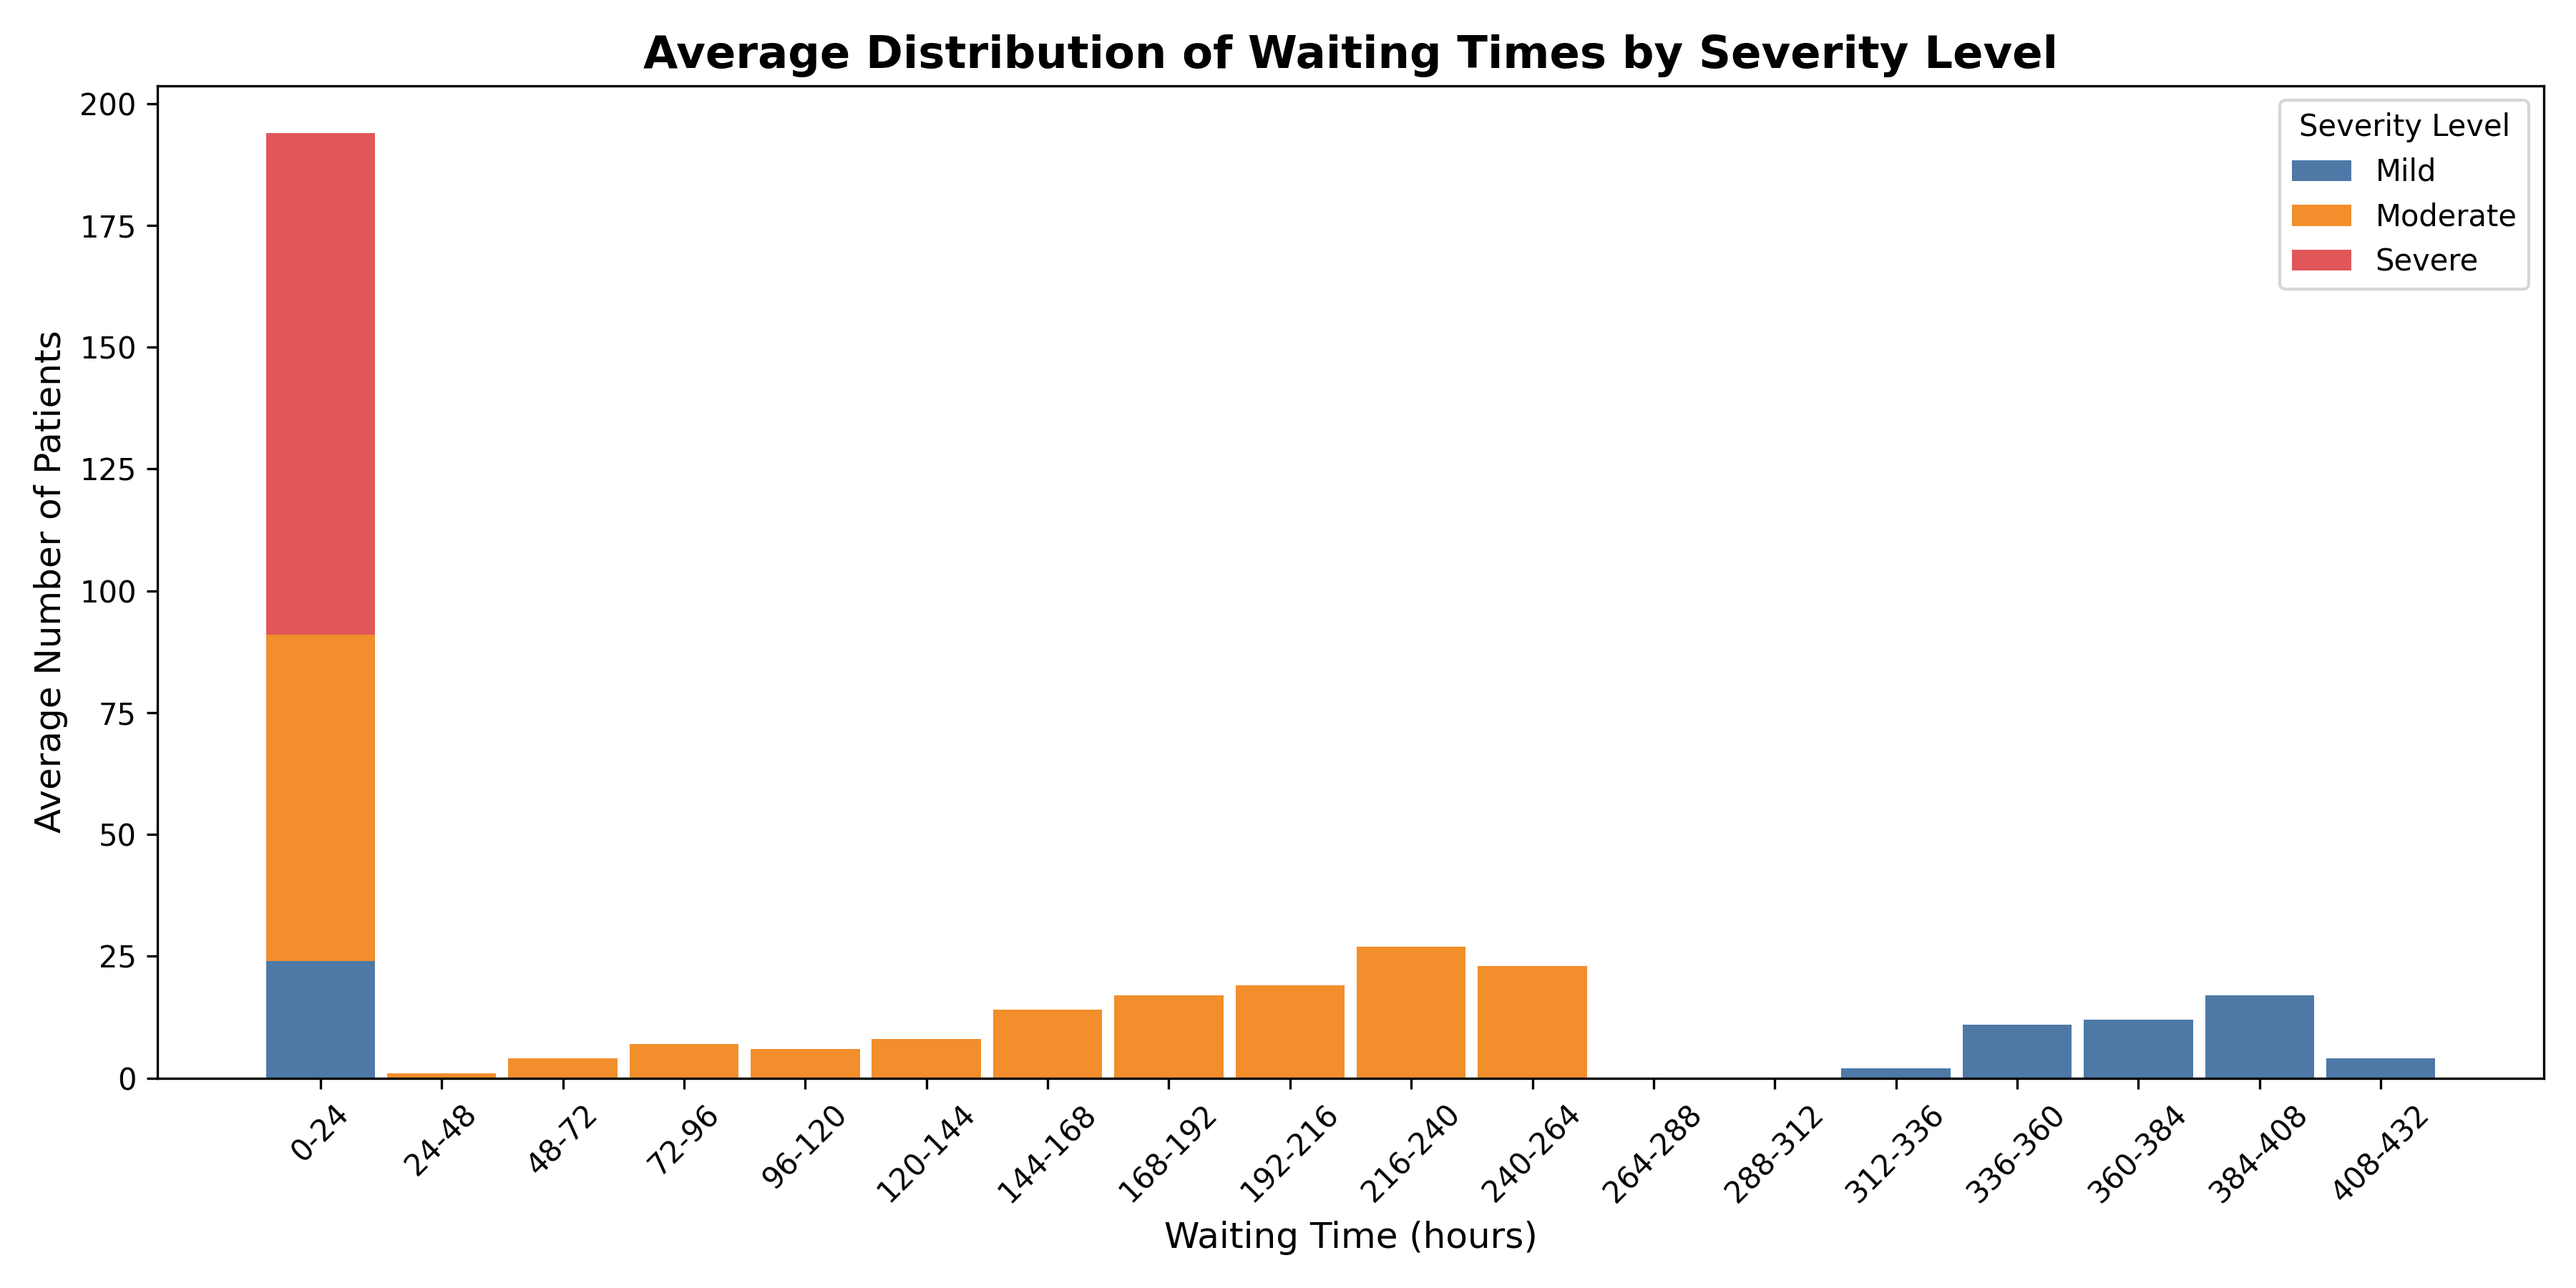
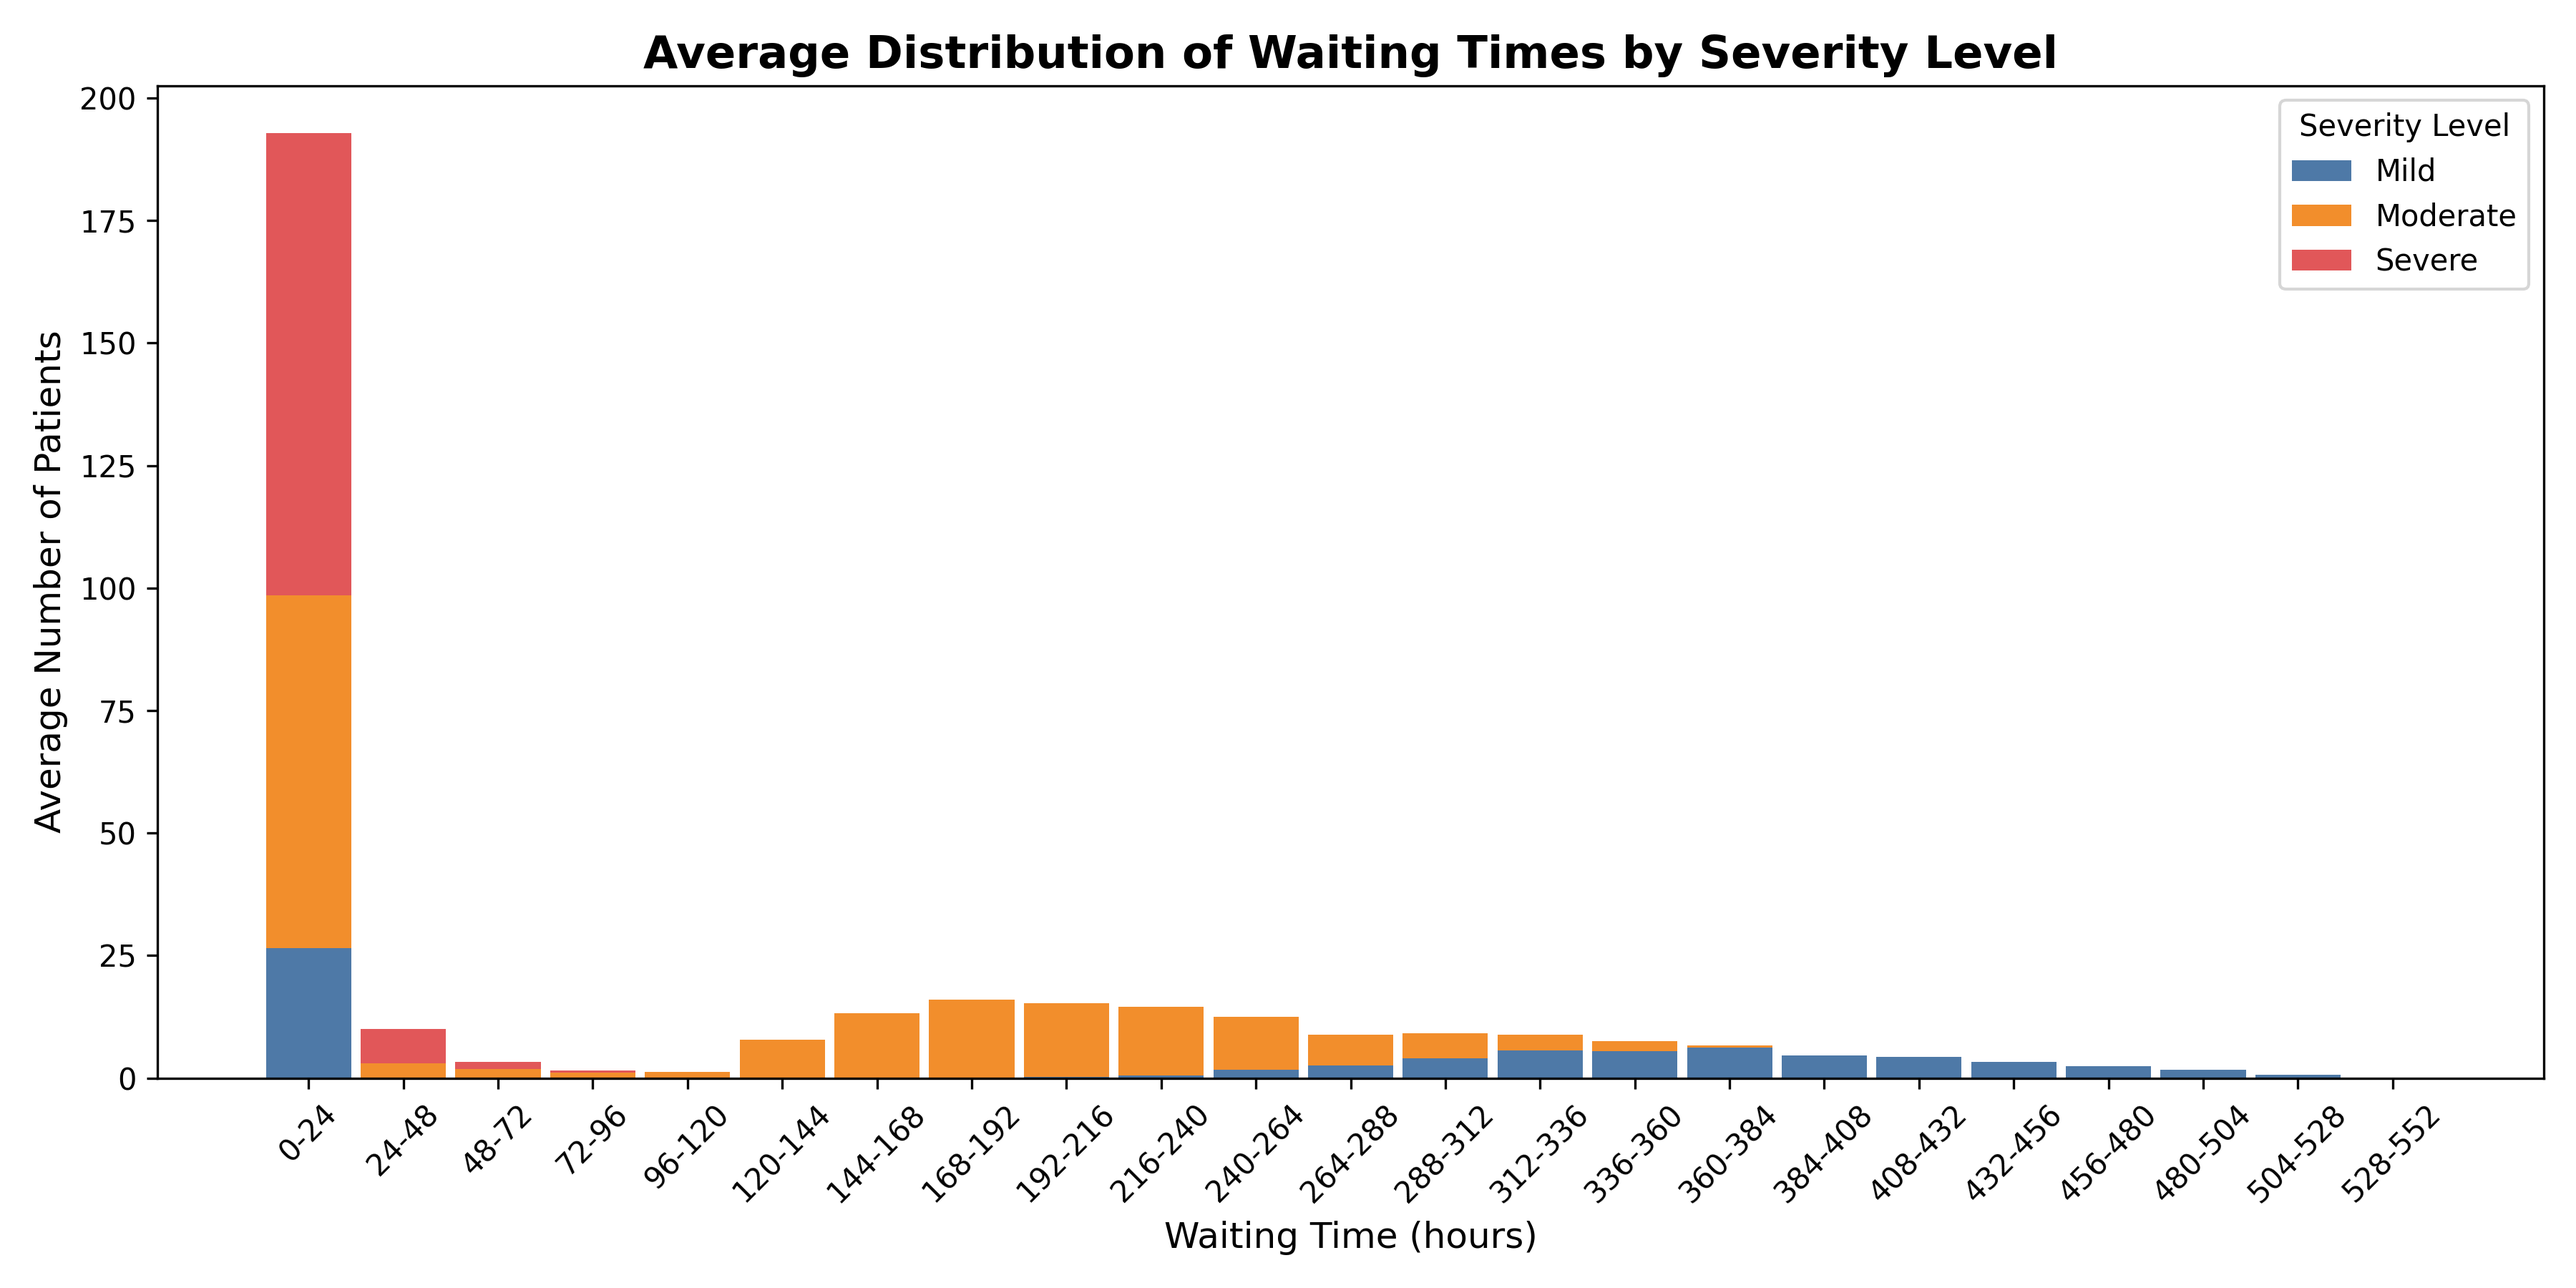
solve inconsistency

diff --git a/Part_1_IcuQueue/IcuQueueMain.py b/Part_1_IcuQueue/IcuQueueMain.py
@@ -1,62 +1,26 @@
-from DepartureProcessWithFIFO import simultaneously_return
+from DepartureProcessWithDPQandReservedBeds import simultaneously_return
 import numpy as np
 import matplotlib.pyplot as plt
 import pandas as pd
 import os
-import random
 from scipy import stats
+import random
 
 random_seed = 5
 random.seed(random_seed)
 np.random.seed(random_seed)
+
 sample_size = 100
-
-# Fetch data
-arrival_times, severity_level_list, start_times, departure_times, waiting_times = simultaneously_return()
-
-'''
-# Penalty Function using Logistic Regression
-alpha_1 = 0.01  # Logistic sensitivity for severity and waiting time
-m_1 = 1
-
-def penaltyFunction(m_1=m_1, alpha_1=alpha_1, severity_level_list=severity_level_list, waiting_times=waiting_times):
-    total_penalty = 0
-    for i in range(len(waiting_times)):
-        severity = severity_level_list[i]
-        waiting_time = waiting_times[i]
-        # Calculate mortality probability using logistic regression
-        mortality_probability = np.e ** (alpha_1 * severity * waiting_time) - 1
-        # Total penalty as the sum of mortality probabilities
-        total_penalty += m_1 * mortality_probability
-    return total_penalty
-'''
-
-
 m_1 = 1 
 alpha_1 = 0.005
 
-def penaltyFunction1(m_1 = m_1, alpha = alpha_1, severity_level_list = severity_level_list, waiting_times = waiting_times):
+def penaltyFunction1(m_1, alpha, severity_level_list, waiting_times):
     total_penalty = 0
     for i in range(len(severity_level_list)):
         severity = severity_level_list[i]
         waiting_time = waiting_times[i]
         total_penalty += m_1 * (np.exp(alpha * severity * waiting_time) - 1)
     return total_penalty
-
-print(penaltyFunction1())
-
-
-# Calculate average penalty
-penalty = penaltyFunction1()
-num_patients = len(waiting_times)
-#average_penalty = total_penalty / num_patients
-
-'''
-print(f"Total Penalty: {total_penalty}")
-print(f"Average Penalty per Patient: {average_penalty}")
-'''
-
-
 
 
 # Function to run 100 simulations and aggregate the results
@@ -127,7 +91,7 @@ figures_dir = os.path.join(output_dir, "figures")
 os.makedirs(figures_dir, exist_ok=True)
 
 # Save the plot to the figures folder
-plot_path = os.path.join(figures_dir, "baseline.png") 
+plot_path = os.path.join(figures_dir, "DPQ+reserved.png") 
 
 grouped_avg = run_multiple_simulations(num_simulations=100, bin_size=24)
 plot_average_severity_distribution(grouped_avg, bin_size=24, save_path=plot_path)
@@ -145,7 +109,7 @@ def penalty_average(sample_size, m_1 = m_1, alpha_1 = alpha_1):
         arrival_times, severity_level_list, start_times, departure_times, waiting_times = simultaneously_return()
         penalty = float(penaltyFunction1(m_1, alpha_1, severity_level_list, waiting_times))
         penalty_list.append(penalty)
-        average_penalty = np.average(penalty_list)
+    average_penalty = np.average(penalty_list)
     return average_penalty, penalty_list
 
 average_penalty, penalty_list = penalty_average(sample_size)
@@ -172,7 +136,7 @@ penalties_dir = os.path.join(output_dir, "penalties")
 os.makedirs(penalties_dir, exist_ok=True)
 
 # Save the average penalty to a file
-penalty_file_name = "baseline.txt" 
+penalty_file_name = "DPQ+reserved.txt" 
 penalty_path = os.path.join(penalties_dir, penalty_file_name)
 
 with open(penalty_path, "w") as f:

diff --git a/Part_1_IcuQueue/DepartureProcessWithPQ.py b/Part_1_IcuQueue/DepartureProcessWithPQ.py
@@ -2,15 +2,14 @@ import heapq
 
 from ArrivalProcess import simulate_arrival_process, generate_length_of_stays
 
-arrival_times, severity_level_list = simulate_arrival_process()
-length_of_stays = generate_length_of_stays(severity_level_list)
 capacity = 100  # Maximum ICU capacity
 
-def simulate_departure_process_priority(arrival_times=arrival_times, severity_level_list=severity_level_list, capacity=capacity):
+def simulate_departure_process_priority(arrival_times, severity_level_list, capacity=capacity):
     departure_times = [None] * len(arrival_times)
     current_ICU_departures = []   
     start_times = [None] * len(arrival_times)
     waiting_queue = []  # Priority queue to manage patients waiting for ICU admission
+    length_of_stays = generate_length_of_stays(severity_level_list)
 
     for i in range(len(arrival_times)):
         temporary_departure_time_list = []
@@ -97,26 +96,23 @@ def simulate_departure_process_priority(arrival_times=arrival_times, severity_le
     return departure_times, start_times
 
 
-# Call the simulation function with priority queue
-departure_times, start_times = simulate_departure_process_priority()
+
 # Calculate waiting times
-def calculate_waiting_times(arrival_times=arrival_times, start_times=start_times):
+def calculate_waiting_times(arrival_times, start_times):
     waiting_times = []
     for i in range(len(arrival_times)):
         waiting_time = start_times[i] - arrival_times[i]
         waiting_times.append(waiting_time)
     return waiting_times
 
-waiting_times = calculate_waiting_times()
 
 # Package the results for return
-def simultaneously_return(arrival_times=arrival_times, severity_level_list=severity_level_list,
-                          start_times=start_times, departure_times=departure_times, waiting_times=waiting_times):
+def simultaneously_return():
+    arrival_times, severity_level_list = simulate_arrival_process()
+    departure_times, start_times = simulate_departure_process_priority(arrival_times, severity_level_list)
+    waiting_times = calculate_waiting_times(arrival_times, start_times)
     return arrival_times, severity_level_list, start_times, departure_times, waiting_times
 
-
-# Simulate data generation
-arrival_times, severity_level_list, start_times, departure_times, waiting_times = simultaneously_return()
 
 
 '''

diff --git a/Part_1_IcuQueue/DepartureProcessWithPQandReservedBeds.py b/Part_1_IcuQueue/DepartureProcessWithPQandReservedBeds.py
@@ -1,13 +1,11 @@
 import heapq
-
 from ArrivalProcess import simulate_arrival_process, generate_length_of_stays
 
-arrival_times, severity_level_list = simulate_arrival_process()
-length_of_stays = generate_length_of_stays(severity_level_list)
 capacity = 100  # Maximum ICU capacity
 reserved_capacity = 30
 
-def simulate_departure_process_priority_with_reserved(arrival_times=arrival_times, severity_level_list=severity_level_list, length_of_stays=length_of_stays, capacity=capacity, reserved_capacity=reserved_capacity):
+def simulate_departure_process_priority_with_reserved(arrival_times, severity_level_list, capacity=capacity, reserved_capacity=reserved_capacity):
+    length_of_stays = generate_length_of_stays(severity_level_list)
     regular_capacity = capacity - reserved_capacity  # Regular beds
     current_regular_ICU_departures = []  # Priority queue for regular bed departures
     current_reserved_ICU_departures = []  # Priority queue for reserved bed departures
@@ -126,10 +124,8 @@ def simulate_departure_process_priority_with_reserved(arrival_times=arrival_time
 
     return departure_times, start_times
 
-departure_times, start_times = simulate_departure_process_priority_with_reserved()
 
-# print(start_times)
-def calculate_waiting_times(arrival_times = arrival_times, start_times = start_times):
+def calculate_waiting_times(arrival_times, start_times):
     waiting_times = []
 
     for i in range(len(arrival_times)):
@@ -138,10 +134,12 @@ def calculate_waiting_times(arrival_times = arrival_times, start_times = start_t
 
     return waiting_times
 
-waiting_times = calculate_waiting_times()
 
-def simultaneously_return(arrival_times=arrival_times, severity_level_list=severity_level_list,
-                          start_times=start_times, departure_times=departure_times, waiting_times=waiting_times):
+def simultaneously_return():
+    arrival_times, severity_level_list = simulate_arrival_process()
+    departure_times, start_times = simulate_departure_process_priority_with_reserved(arrival_times, severity_level_list)
+    waiting_times = calculate_waiting_times(arrival_times, start_times)
+
     return arrival_times, severity_level_list, start_times, departure_times, waiting_times
 
 

diff --git a/Part_1_IcuQueue/DepartureProcessWithFIFO.py b/Part_1_IcuQueue/DepartureProcessWithFIFO.py
@@ -13,7 +13,7 @@ average_length_of_stays = [3, 7, 15] # averagely, Mild - 3 days; Moderate - 7 da
 capacity = 100 # If you want to modify this parameter, please simultaneously modify 'capacity' in Part_2_CareGiver/CareRequest.py
 
 # This function tracks the departure times of patients under the assumption of FIFO.
-def simulate_departure_process_FIFO(arrival_times = arrival_times, severity_level_list = severity_level_list, capacity = capacity):
+def simulate_departure_process_FIFO(arrival_times, severity_level_list, capacity = capacity):
     departure_times = []
     current_ICU_departures = [] # tracks the departure times of those patients currently in ICU.
     start_times = []
@@ -37,13 +37,12 @@ def simulate_departure_process_FIFO(arrival_times = arrival_times, severity_leve
 
     return departure_times, start_times
         
-departure_times, start_times = simulate_departure_process_FIFO()
 
 #print(arrival_times)
 #print(start_times)
 #print(simulate_departure_process_FIFO())
 
-def calculate_waiting_times(arrival_times = arrival_times, start_times = start_times):
+def calculate_waiting_times(arrival_times, start_times):
     waiting_times = []
 
     for i in range(len(arrival_times)):
@@ -54,13 +53,13 @@ def calculate_waiting_times(arrival_times = arrival_times, start_times = start_t
 
 #print(calculate_waiting_times())
 
-waiting_times = calculate_waiting_times()
 
 #print(len(severity_level_list))
 #print(len(waiting_times))
 
 # To resolve the in-consistency issue.
-def simultaneously_return(arrival_times = arrival_times, severity_level_list = severity_level_list, 
-                          start_times = start_times, departure_times = departure_times,
-                          waiting_times = waiting_times): 
+def simultaneously_return(): 
+    arrival_times, severity_level_list = simulate_arrival_process()
+    departure_times, start_times = simulate_departure_process_FIFO(arrival_times, severity_level_list)
+    waiting_times = calculate_waiting_times(arrival_times, start_times)
     return arrival_times, severity_level_list, start_times, departure_times, waiting_times

diff --git a/Part_1_IcuQueue/DepartureProcessWithReservedBeds.py b/Part_1_IcuQueue/DepartureProcessWithReservedBeds.py
@@ -8,15 +8,14 @@ import numpy as np
 import heapq
 
 
-arrival_times, severity_level_list = simulate_arrival_process()
-length_of_stays = generate_length_of_stays(severity_level_list)
 capacity = 100 # If you want to modify this parameter, please simultaneously modify 'capacity' in Part_2_CareGiver/CareRequest.py
 reserved_capacity = 30
 
 
-def simulate_departure_process_with_reserved_beds(arrival_times=arrival_times, severity_level_list=severity_level_list,
+def simulate_departure_process_with_reserved_beds(arrival_times, severity_level_list,
                                                capacity=capacity, reserved_capacity=reserved_capacity):
     regular_capacity = capacity - reserved_capacity 
+    length_of_stays = generate_length_of_stays(severity_level_list)
 
     departure_times = []
     start_times = []
@@ -83,10 +82,8 @@ def simulate_departure_process_with_reserved_beds(arrival_times=arrival_times, s
 
     return departure_times, start_times
 
-departure_times, start_times = simulate_departure_process_with_reserved_beds()
 
-
-def calculate_waiting_times(arrival_times = arrival_times, start_times = start_times):
+def calculate_waiting_times(arrival_times, start_times):
     waiting_times = []
 
     for i in range(len(arrival_times)):
@@ -95,10 +92,11 @@ def calculate_waiting_times(arrival_times = arrival_times, start_times = start_t
 
     return waiting_times
 
-waiting_times = calculate_waiting_times()
 
-def simultaneously_return(arrival_times=arrival_times, severity_level_list=severity_level_list,
-                          start_times=start_times, departure_times=departure_times, waiting_times=waiting_times):
+def simultaneously_return():
+    arrival_times, severity_level_list = simulate_arrival_process()
+    departure_times, start_times = simulate_departure_process_with_reserved_beds(arrival_times, severity_level_list)
+    waiting_times = calculate_waiting_times(arrival_times, start_times)
     return arrival_times, severity_level_list, start_times, departure_times, waiting_times
 
 

diff --git a/Part_1_IcuQueue/ArrivalProcess.py b/Part_1_IcuQueue/ArrivalProcess.py
@@ -54,7 +54,7 @@ def simulate_arrival_process(time_horizon = time_horizon, lambda_max = lambda_ma
 
 # print(simulate_arrival_process())
 
-arrival_times, severity_level_list = simulate_arrival_process()
+#arrival_times, severity_level_list = simulate_arrival_process()
 
 def generate_length_of_stays(severity_level_list, average_length_of_stays=average_length_of_stays):
     length_of_stays = []
@@ -66,18 +66,3 @@ def generate_length_of_stays(severity_level_list, average_length_of_stays=averag
 
 # length_of_stays = generate_length_of_stays(severity_level_list)
 # print(length_of_stays[23])
-"""
-total_1 = 0
-total_2 = 0
-total_3 = 0
-for i in severity_level_list:
-    if i == 1:
-        total_1 += 1
-    elif i == 2:
-        total_2 += 1
-    else:
-        total_3 += 1
-print(total_1 / len(severity_level_list))
-print(total_2 / len(severity_level_list))
-print(total_3 / len(severity_level_list))
-"""
